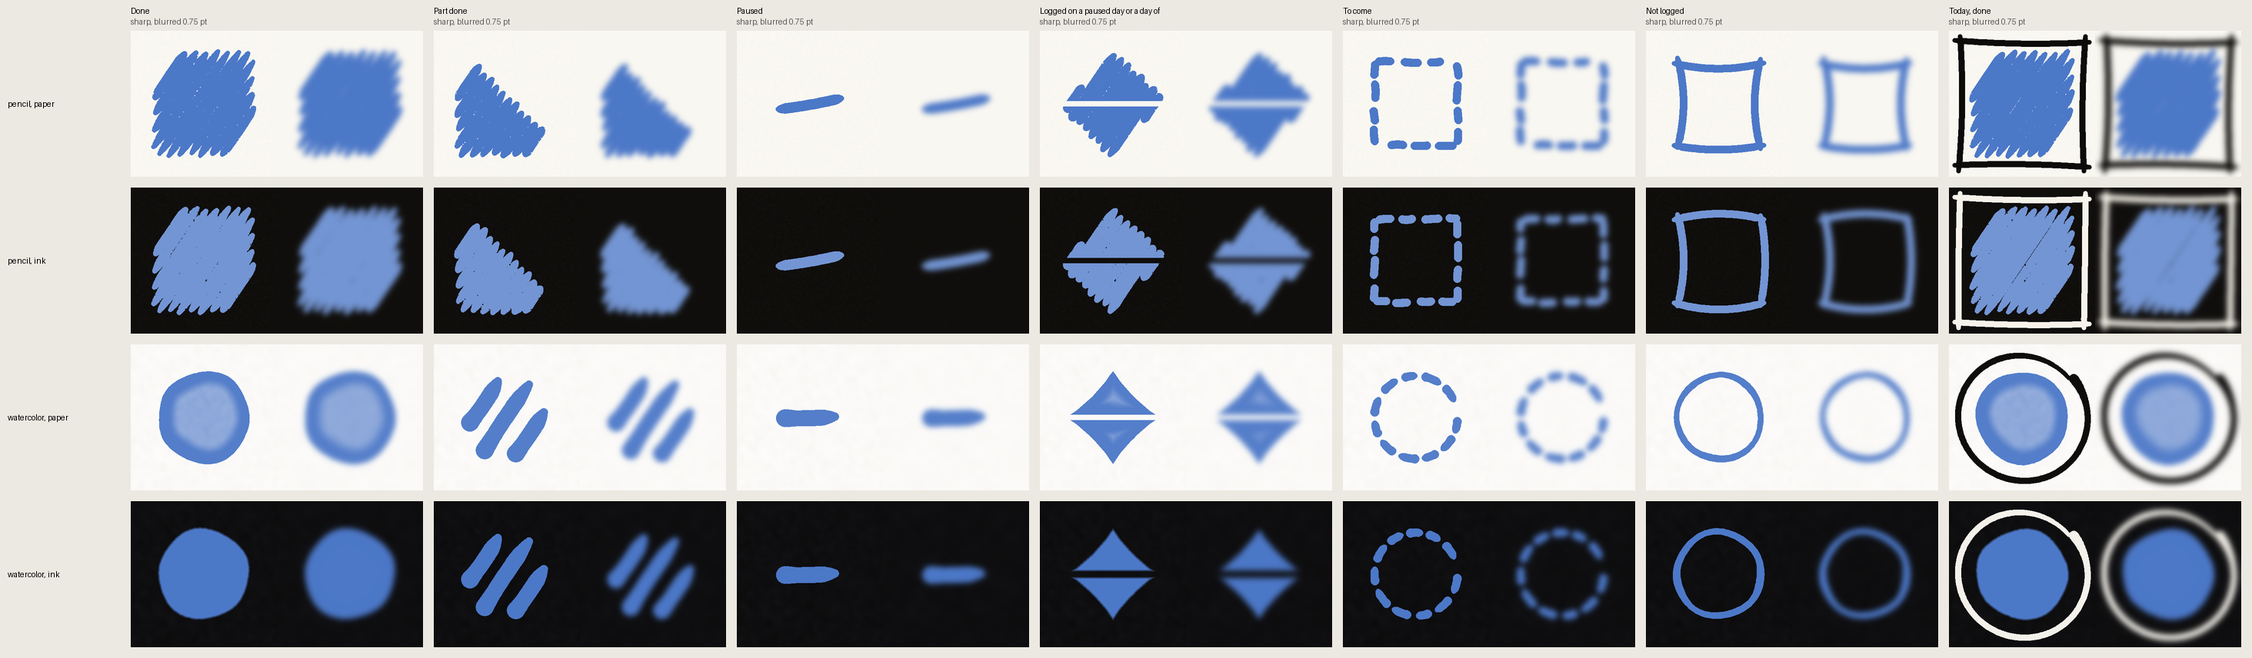
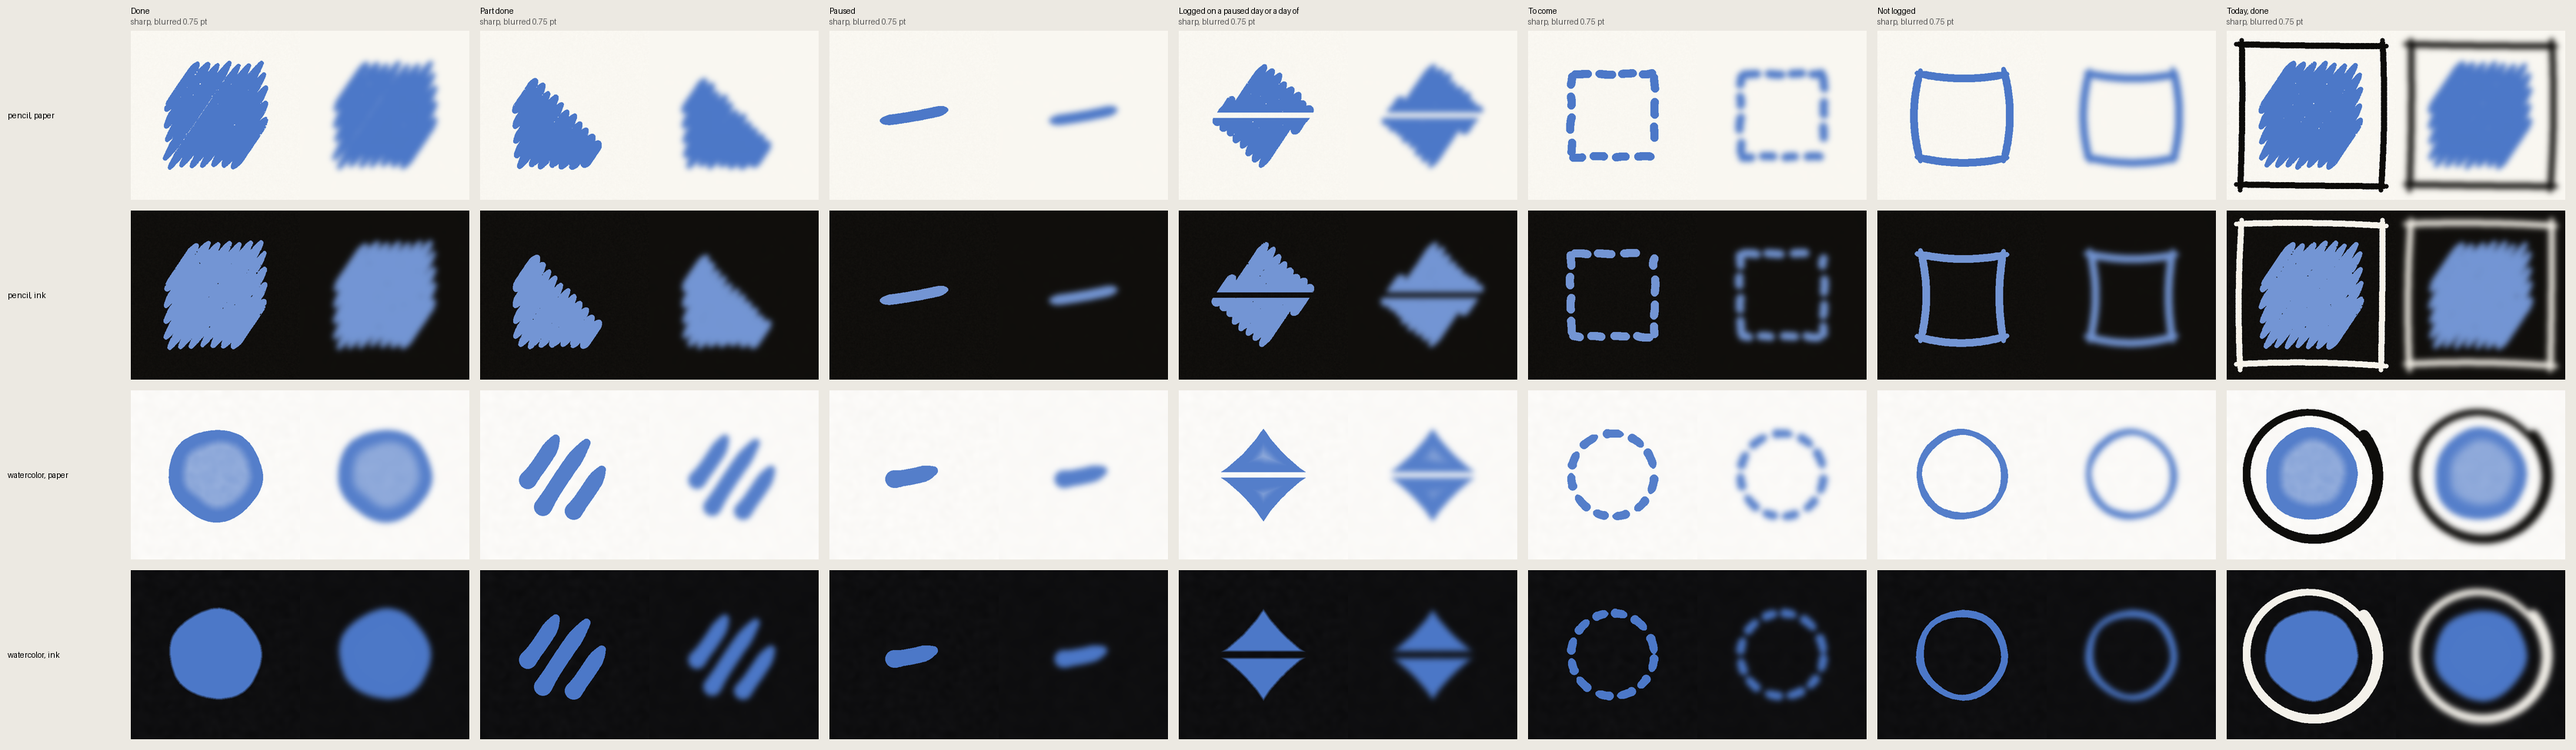
Step 3 drawing, round two: clearance, ring width, paused dab, pencil lines, a wrapped name
Claude-Session: https://claude.ai/code/session_012NdevCAvT4U8qS7nMJ64YM

diff --git a/tools/marks/today_rows.py b/tools/marks/today_rows.py
@@ -10,7 +10,8 @@ import full_marks as fm
 Q = 4                                   # pixels per point in the row drawing
 W = 393                                 # a phone's width in points
 ROWS = [("Drink water", "3 of 8 glasses", "part"), ("Read", "", "done"), ("Walk outside", "", "blank"),
-        ("Take vitamins", "Paused", "paused"), ("Stretch before bed", "Logged while paused", "diamond")]
+        ("Take vitamins", "Paused", "paused"), ("Stretch before bed", "Logged while paused", "diamond"),
+        ("Practise the cello piece for the spring concert", "10 of 20 minutes", "part")]
 F = "docs/mockups/fonts/"
 
 def display(style, size):
@@ -28,28 +29,43 @@ def panel(style, ap):
     tok = fm.TOK["styles"][style][ap]; paper, text = fm.hexrgb(tok["paper"]), fm.hexrgb(tok["text"])
     accent = fm.hexrgb(fm.TOK["swatches"]["blue"])
     line_gap = 6; name_size = 20; name_line = name_size * 1.25
-    row_h = 58 if style == "pencil" else 58 + name_line - line_gap          # Watercolor: one line of the name more, with no rule
-    H = int((96 + row_h * len(ROWS) + 24) * Q)
+    gap = 0 if style == "pencil" else name_line - line_gap               # Watercolor: one line of the name more between rows, with no rule
+    nf, lf = display(style, name_size * Q), label(14 * Q); maxw = (W - 21 - 44 - 21 - 12) * Q
+    def wrap(t):
+        out, cur = [], ""
+        for w in t.split():
+            if cur and nf.getlength(cur + " " + w) > maxw: out.append(cur); cur = w
+            else: cur = (cur + " " + w).strip()
+        return out + [cur]
+    lines = [wrap(n) for n, _, _ in ROWS]
+    hs = [max(58, 16 + len(l) * name_line + (19 if sub else 0)) + gap for l, (_, sub, _) in zip(lines, ROWS)]
+    H = int((96 + sum(hs) + 24) * Q)
     field = np.ones((H, W * Q, 3)) * paper
     g = tok["grain"]; tex = np.resize(fm.tooth if style == "pencil" else fm.dimple, (H, W * Q))[..., None]
     field = field * (1 - g["maxAlpha"] * tex) + fm.hexrgb(g["color"]) * g["maxAlpha"] * tex
+    rng = np.random.default_rng(3); y = 96
+    if style == "pencil":                                                    # one pencil stroke between rows: bow of 1 point at most, inset 2 to 4 points, pressure varies, the tooth breaks it
+        big = np.resize(fm.tooth, (H, W * Q)); yy = 96
+        for i, h in enumerate(hs[:-1]):
+            yy += h; x0, x1 = 21 + 2 + rng.random() * 2, W - 21 - 2 - rng.random() * 2; bow = (rng.random() - 0.5) * 2; ph = rng.random(2) * 6.28
+            for px in range(int(x0 * Q), int(x1 * Q)):
+                t = (px / Q - x0) / (x1 - x0); cyp = (yy + bow * math.sin(math.pi * t)) * Q
+                press = (0.62 + 0.2 * math.sin(t * 5 + ph[0]) + 0.12 * math.sin(t * 17 + ph[1])) * min(1, t / 0.03 + 0.4, (1 - t) / 0.03 + 0.4)
+                for py in range(int(cyp - Q), int(cyp + Q) + 1):
+                    a = max(0, 1 - abs(py - cyp) / (Q * 0.55)) * press * (0.25 if big[py, px] > 0.6 else 1)
+                    field[py, px] = field[py, px] * (1 - a) + text * a
     im = Image.fromarray((np.clip(field, 0, 1) * 255).astype("uint8")); d = ImageDraw.Draw(im)
-    tcol, sec, ter = mix(text, text, 0), mix(paper, text, tok["secondaryAlpha"]), mix(paper, text, tok["tertiaryAlpha"])
+    tcol, sec = mix(text, text, 0), mix(paper, text, tok["secondaryAlpha"])
     d.text((21 * Q, 24 * Q), "Today", font=display(style, 34 * Q), fill=tcol)
     d.text((21 * Q, 68 * Q), "Saturday 14 November", font=label(15 * Q), fill=sec)
-    rng = np.random.default_rng(3)
-    for i, (name, sub, state) in enumerate(ROWS):
-        y = 96 + i * row_h; cy = y + row_h / 2
-        if style == "pencil" and i > 0:                                      # one pencil stroke, bowed by at most 1 point, inset 2 to 4 points
-            x0, x1 = 21 + 2 + rng.random() * 2, W - 21 - 2 - rng.random() * 2; bow = (rng.random() - 0.5) * 2
-            pts = [((x0 + (x1 - x0) * t) * Q, (y + bow * math.sin(math.pi * t)) * Q) for t in np.linspace(0, 1, 40)]
-            d.line(pts, fill=mix(paper, text, tok["ruleAlpha"] + 0.1), width=Q)
-        ty = cy - (name_line / 2 if not sub else name_line / 2 + 9)
-        d.text((21 * Q, ty * Q), name, font=display(style, name_size * Q), fill=tcol)
-        if sub: d.text((21 * Q, (ty + name_line + 1) * Q), sub, font=label(14 * Q), fill=sec)
+    for (name, sub, state), ls, h in zip(ROWS, lines, hs):
+        cy = y + h / 2; block = len(ls) * name_line + (19 if sub else 0); ty = cy - block / 2
+        for k, l in enumerate(ls): d.text((21 * Q, (ty + k * name_line) * Q), l, font=nf, fill=tcol)
+        if sub: d.text((21 * Q, (ty + len(ls) * name_line + 1) * Q), sub, font=lf, fill=sec)
         img, _ = fm.render(style, ap, state, accent, outline=True)           # the control: the mark inside the today square or ring
         side = int(fm.N / fm.S * Q); ctl = Image.fromarray((np.clip(img, 0, 1) * 255).astype("uint8")).resize((side, side), Image.LANCZOS)
         im.paste(ctl, (int((W - 21 - 44) * Q + (44 * Q - side) / 2), int(cy * Q - side / 2)))
+        y += h
     return im
 
 def main(out):

diff --git a/tools/marks/full_marks.py b/tools/marks/full_marks.py
@@ -12,7 +12,7 @@ from scipy.ndimage import gaussian_filter, distance_transform_edt
 
 S = 10                       # pixels per point
 SIZE = 24                    # the mark, in points
-PAD = 7                      # room for the today square or ring
+PAD = 10                     # room for the today square or ring
 N = (SIZE + 2 * PAD) * S     # canvas edge in pixels
 C = N / 2
 TH = math.radians(56)
@@ -117,7 +117,7 @@ def pencil(state):
     return np.zeros((N, N)), np.zeros((N, N))
 
 def pencil_today():                                         # four strokes whose ends cross and overshoot each corner by 1 point
-    q = H + 5.5; m = np.zeros((N, N))      # 3 points clear of the mark, stroke ends included
+    q = H + 6.5; m = np.zeros((N, N))      # 3 points clear of the mark, stroke ends and bow included
     for x0, y0, x1, y1 in [(-q - 1, -q, q + 1, -q + 0.5), (q, -q - 1, q - 0.4, q + 1), (q + 1, q, -q - 1, q - 0.5), (-q, q + 1, -q + 0.4, -q - 1)]:
         m = np.maximum(m, mask(lambda d: stamp(d, bowed(x0, y0, x1, y1, (rng.random() - 0.5) * 1.6), taper(1.5, 0.75, 0.06))))
     return m
@@ -157,10 +157,11 @@ def water(state, ink=False):
         return wash(sh, ink)
     if state == "part":                                     # three brush strokes at full strength, each pooled at its start and lifted at its end
         dx, dy, nx, ny = math.cos(TH), -math.sin(TH), math.sin(TH), math.cos(TH); w = SIZE * 0.17
-        m = mask(lambda d: [stamp(d, bowed(nx * o - dx * L, ny * o - dy * L, nx * o + dx * L, ny * o + dy * L, b), brush(w)) for o, L, b in ((-SIZE * 0.3, SIZE * 0.27, 0.3), (0, SIZE * 0.43, -0.25), (SIZE * 0.3, SIZE * 0.27, 0.2))])
+        m = mask(lambda d: [stamp(d, bowed(nx * o - dx * L, ny * o - dy * L, nx * o + dx * L, ny * o + dy * L, b), brush(w)) for o, L, b in ((-SIZE * 0.3, SIZE * 0.27, 0.3), (0, SIZE * 0.42, -0.25), (SIZE * 0.3, SIZE * 0.27, 0.2))])
         return m, m > 0.99
     if state == "paused":
-        m = mask(lambda d: stamp(d, bowed(-SIZE * 0.27, 0.2, SIZE * 0.27, -0.2, 0.2), brush(SIZE * 0.17))); return m, m > 0.99
+        a = math.radians(-12); L = SIZE * 0.22      # a short tilted dab, so it does not read as the system's minus in a circle
+        m = mask(lambda d: stamp(d, bowed(-L * math.cos(a), -L * math.sin(a), L * math.cos(a), L * math.sin(a), 0.3), brush(SIZE * 0.17))); return m, m > 0.99
     if state == "tocome":                                   # a ring of short dabs of uneven length, 2 points, gaps of 2 points or more
         r = R * 0.9; m = np.zeros((N, N)); a0 = 0.1
         while a0 < 2 * math.pi - 0.3:
@@ -173,9 +174,9 @@ def water(state, ink=False):
     return np.zeros((N, N)), np.zeros((N, N), bool)
 
 def water_today():                                          # one brushed ring: pooled where it starts, thin where it lifts, gap of 1 point at most
-    r = H + 5; n = 120; gap = 1.0 / r; start = -0.7
+    r = H + 5.2; n = 120; gap = 1.0 / r; start = -0.7
     def at(i): a = start + gap + (2 * math.pi - gap) * i / n; rr = r + 0.3 * math.sin(a * 2 + 0.6) - 0.9 * (i / n); return rr * math.cos(a), rr * math.sin(a)   # the end lands just inside the start
-    def width(i): t = i / n; return 1.5 + 0.9 * max(0, 1 - t / 0.07) - 0.55 * max(0, (t - 0.8) / 0.2)       # pooled at the start, thin where it lifts
+    def width(i): t = i / n; return max(1.5, 3.0 - 1.5 * t ** 0.7)       # 3 points where it pools at the start, thinning all the way round to 1.5 where it lifts
     return mask(lambda d: [stamp(d, [at(i), at(i + 0.5), at(i + 1)], (lambda t, w=width(i): w), 4) for i in range(n)])
 
 # ---------- compose and measure ----------
